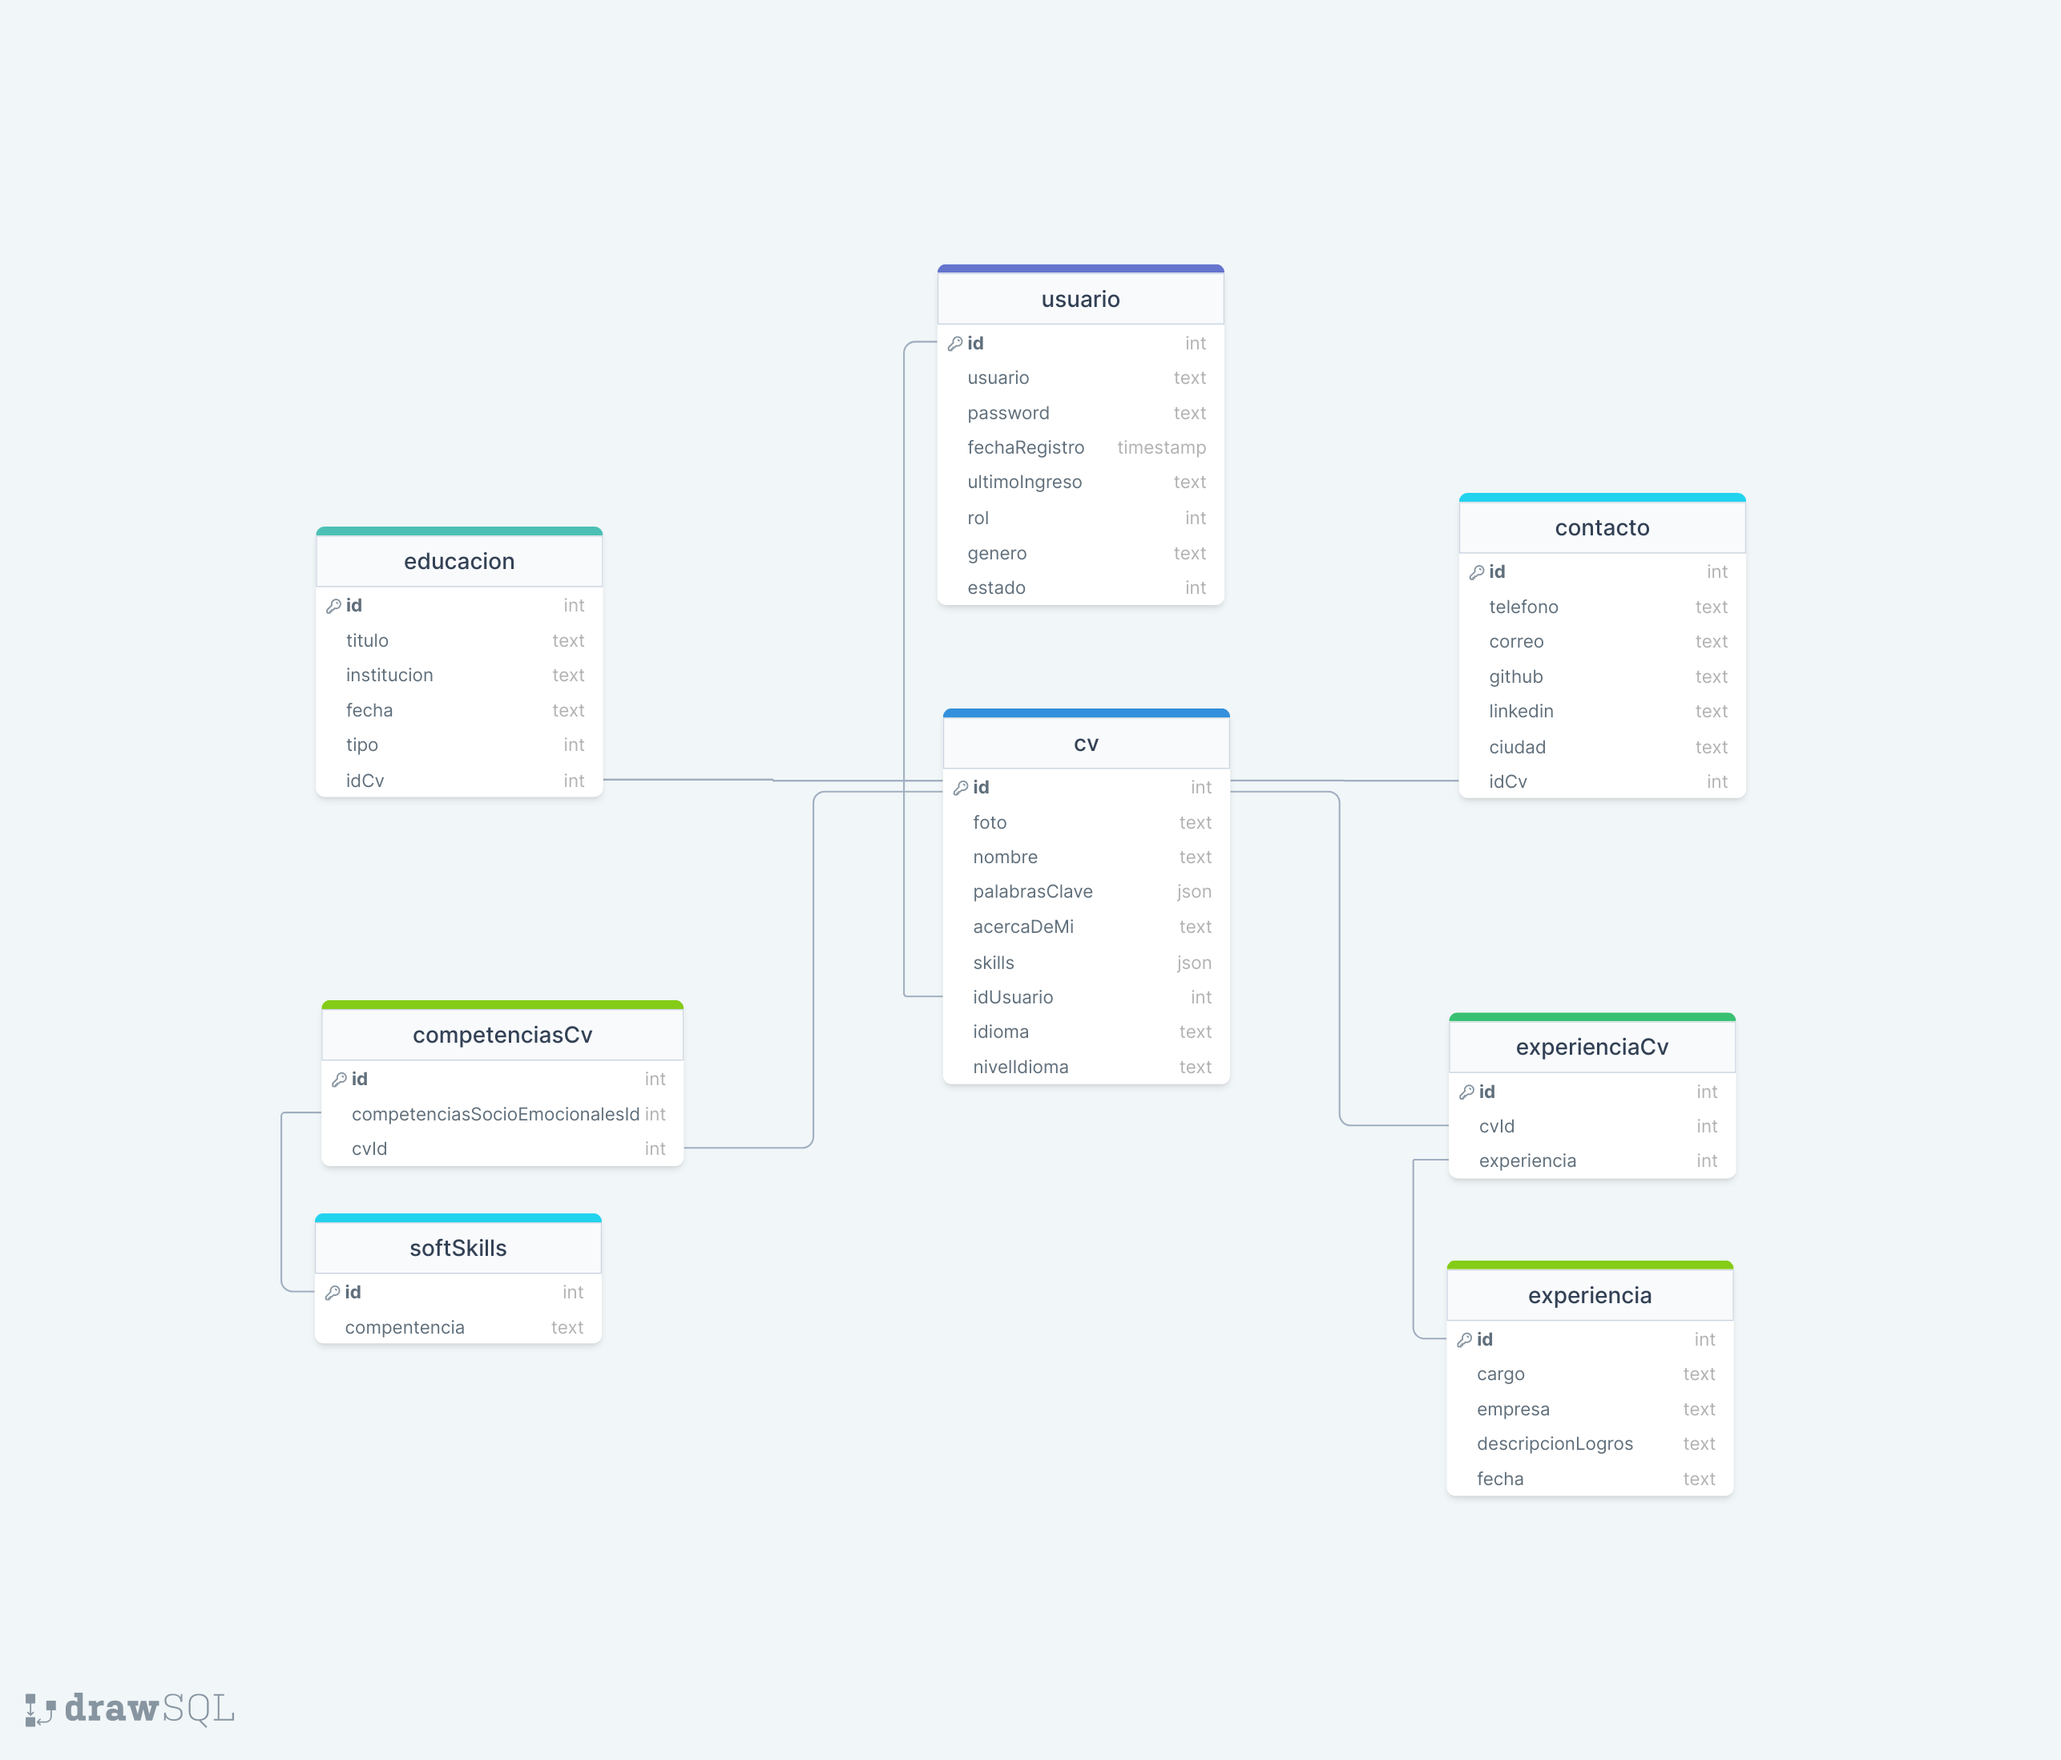
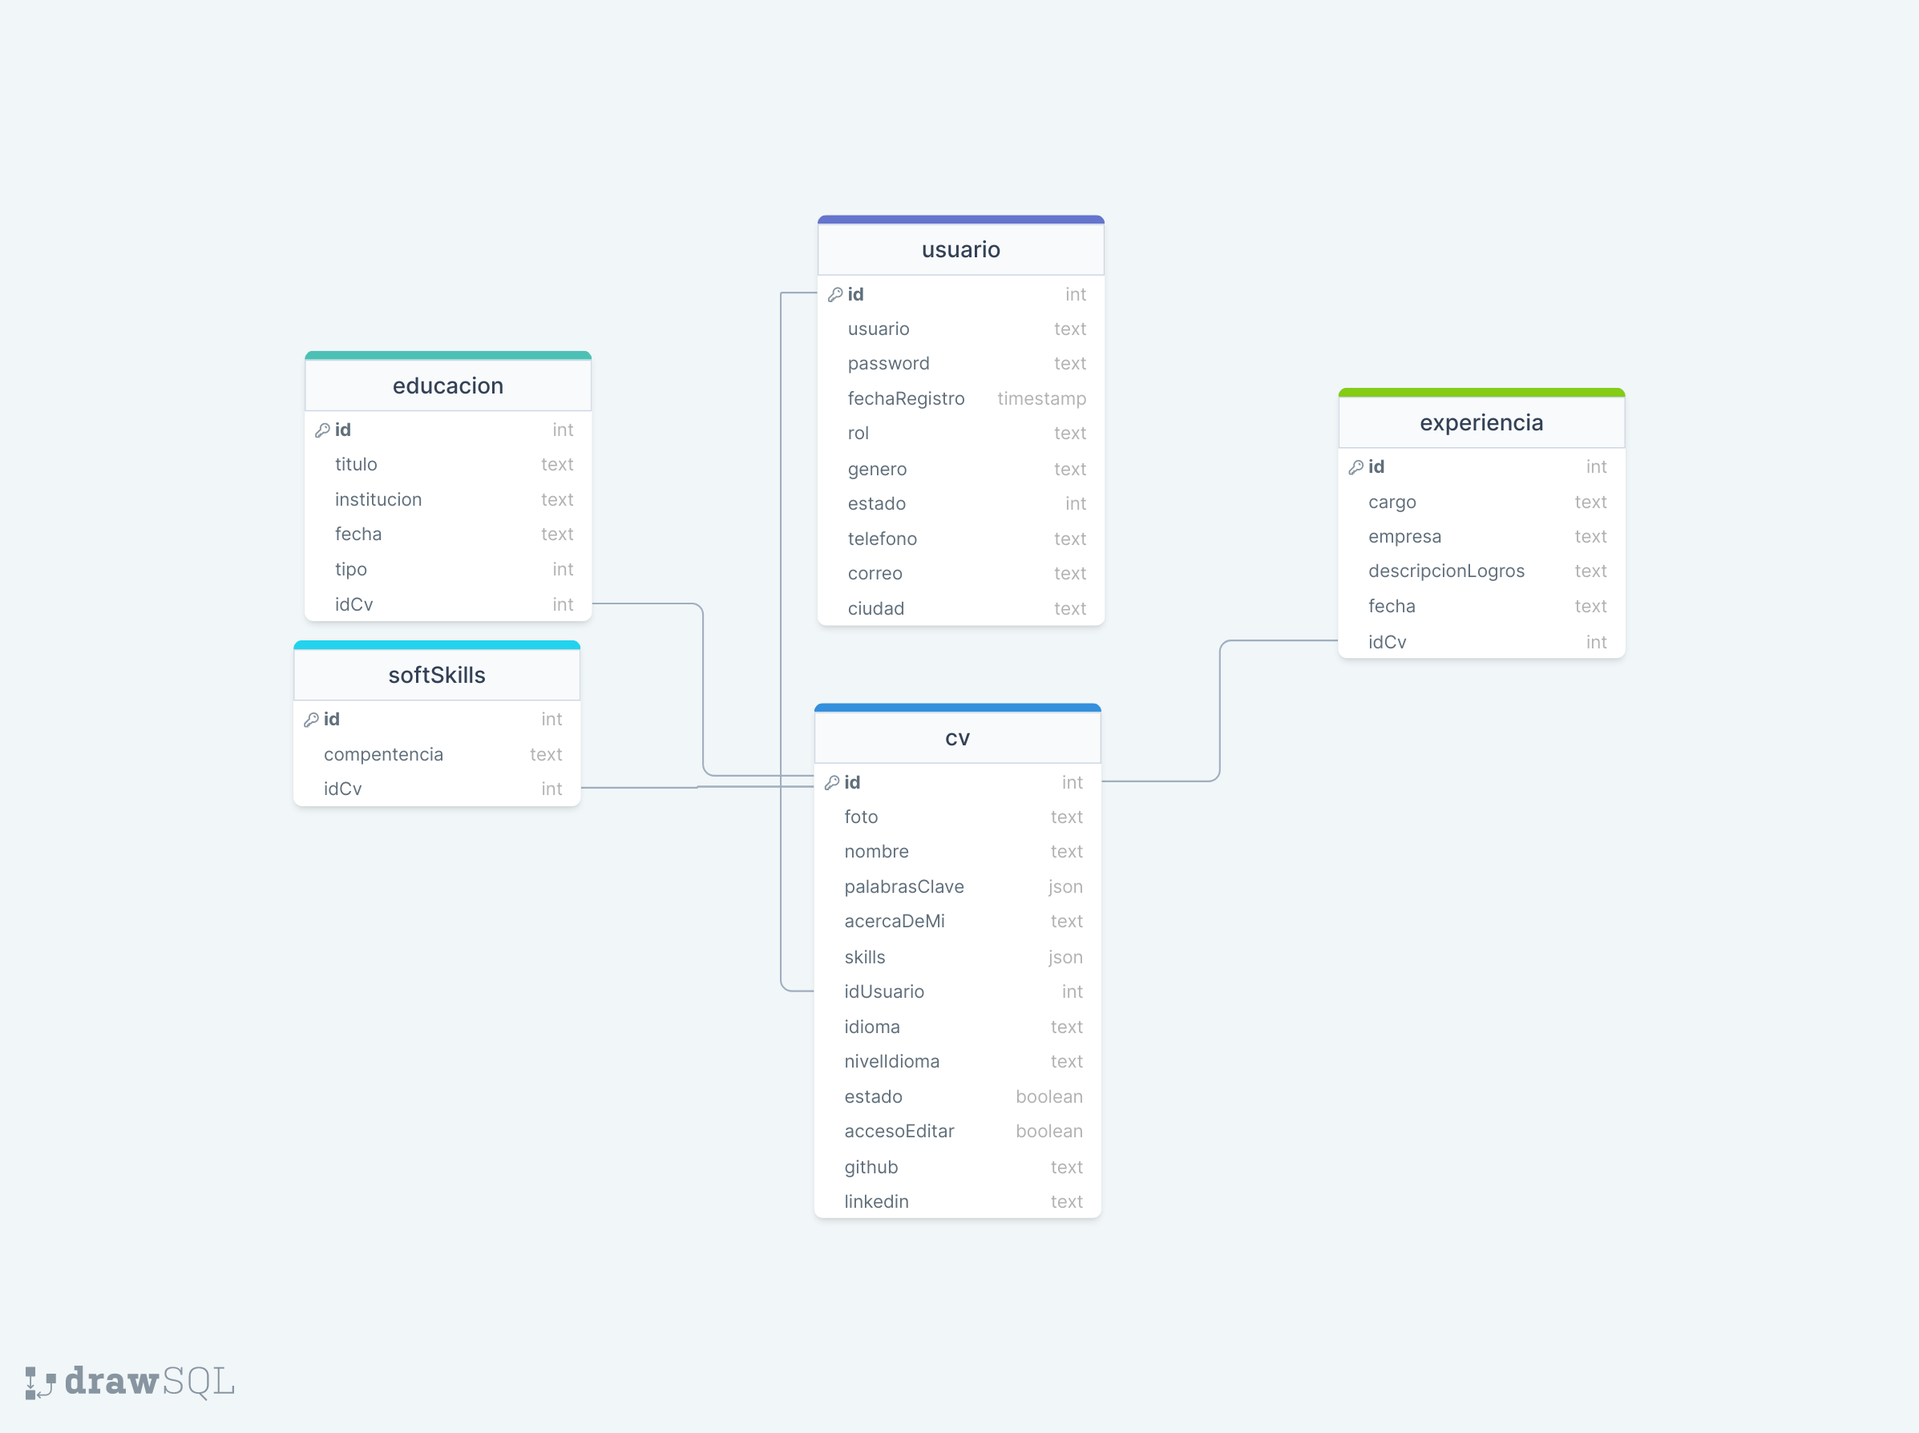
feat(SideProject): :memo: Actualizacion ModeloEntidadRelacion y Script Db
Se realiza actualizacion de esquema y script que contiene el codigo para la creacion de la base de datos en Mysql

EduardoMantilla

diff --git a/README.md b/README.md
@@ -1,3 +1,38 @@
 # SideProject
 
 <img src="./doc/db/EsquemaDB.png" />
+
+## Stack Tecnologico 
+
+<img src="./doc/StackTecnologico.png" />
+
+### Requerimientos funcionales
+
+1. La aplicacion debe contar con dos roles Administrativo - Camper
+
+Rol Administrativo
+1. Permitir crear nuevos usuarios.
+2. Permitir o denegear el acceso a la plataforma a usuarios que se registren por si mismos.
+3. Listar usuarios con sus cv cargadas en el sistema.
+4. Permitir editar la informacion de un cv de un camper
+5. Permitir si la cv de un camper se puede ver o no en la plataforma.
+6. Gestionar permiso a un camper para que pueda editar o no la plataforma.
+
+Rol Camper
+1. Registrarse en la plataforma.
+2. Cargar informacion requerida para poder tener un cv visto 
+
+
+EndPoints 
+CRUD - CV
+CRUD - USUARIO
+CRUD - EDUCACION
+CRUD - SOFTSKILLS
+CRUD - EXPERIENCIA 
+
+Tabla Cv - (Get)   
+    nombre  
+    foto
+    palabrasClave
+    idioma
+    nivel
